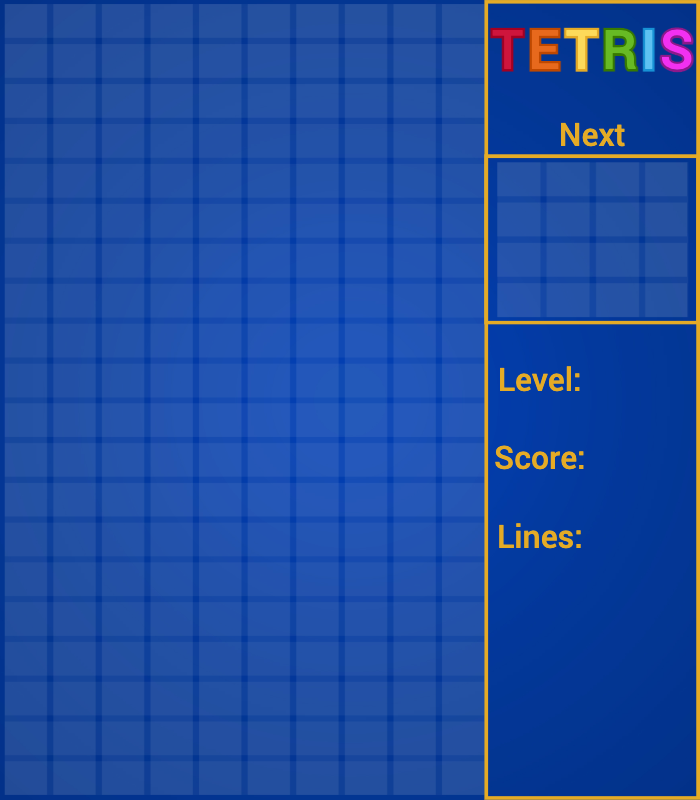
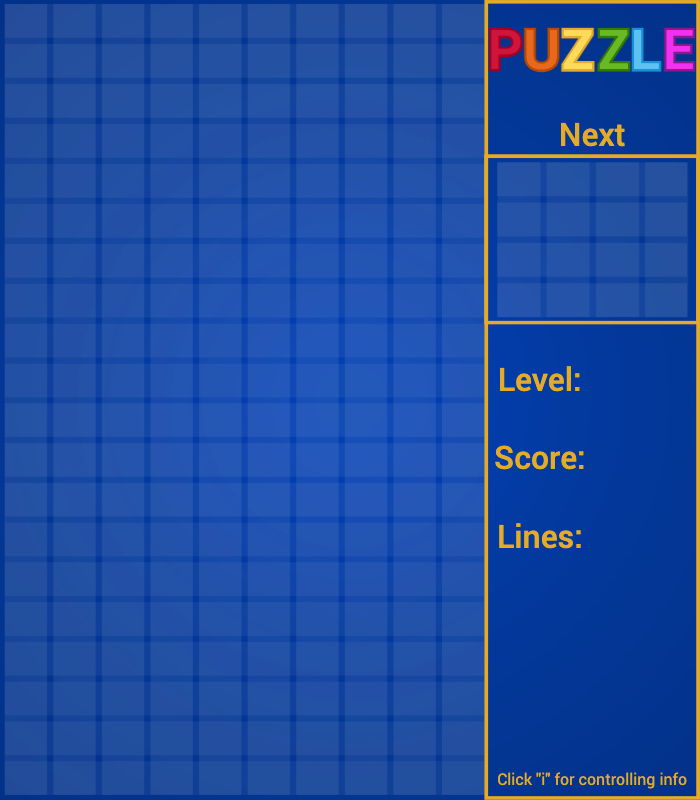
fix ghostPiece position bug, add hardDrop, controlling info

Changed region(s): [[0.69, 0.0312, 1.0, 0.0938], [0.72, 0.9688, 0.99, 1.0]]

diff --git a/game/src/GameController.cpp b/game/src/GameController.cpp
@@ -11,7 +11,7 @@
 
 #include <random>
 #include <App.hpp>
-
+#include <Settings.hpp>
 
 using ::Engine::Math::operator*=;
 
@@ -26,6 +26,8 @@ GameController::GameController(App *parent, MiniKit::Engine::Context &context) :
 
     SpriteManager->loadSprite("assets/images/background_b.png", "playField");
     SpriteManager->loadSprite("assets/images/square.png", "square");
+    SpriteManager->loadSprite("assets/images/pause.png", "pause");
+    SpriteManager->loadSprite("assets/images/info_b.png", "info");
 
     entityManager->addSystem(*m_gridSystem);
     entityManager->addSystem(*m_collisionSystem);
@@ -33,27 +35,47 @@ GameController::GameController(App *parent, MiniKit::Engine::Context &context) :
     entityManager->addSystem(*m_tileSystem);
     entityManager->addSystem(*m_scoreSystem);
 
+    m_controlInfoLabel = ::std::make_unique<Entity>(entityManager->createEntity());
+    m_pauseLabel = ::std::make_unique<Entity>(entityManager->createEntity());
+    m_ghostPiece = ::std::make_unique<Entity>(entityManager->createEntity());
     m_currentPiece = ::std::make_unique<Entity>(entityManager->createEntity());
     m_nextPiece = ::std::make_unique<Entity>(entityManager->createEntity());
-    m_ghostPiece = ::std::make_unique<Entity>(entityManager->createEntity());
+
     m_playField = ::std::make_unique<Entity>(entityManager->createEntity());
+
+    m_pauseLabel->addComponent<Sprite>();
+    m_controlInfoLabel->addComponent<Sprite>();
 
     m_playField->addComponent<BoardComponent>();
     m_playField->addComponent<ScoreComponent>();
     m_playField->addComponent<Sprite>();
 
-    m_nextPiece->addComponent<PieceComponent>();
-
     m_ghostPiece->addComponent<PieceComponent>();
+    m_nextPiece->addComponent<PieceComponent>();
 
     initPlayFieldBackground();
 
     m_eventSystem->connect(this, &GameController::updatePieces);
+    m_eventSystem->connect(this, &GameController::onPieceFallen);
 }
 
 GameController::~GameController() {
 //    m_context.GetWindow().RemoveResponder(*m_pieceSystem);
 //    m_context.GetWindow().RemoveResponder(*this);
+}
+
+void GameController::onPieceFallen(PieceFallenEvent *) {
+
+    if (m_currentState != State::PieceBlocking) {
+        m_currentState = State::PieceBlocking;
+        m_pieceBlockingTimer = ::std::chrono::duration_cast<::std::chrono::milliseconds>(::std::chrono::system_clock::now().time_since_epoch());
+    } else {
+        auto currentTime = ::std::chrono::duration_cast<::std::chrono::milliseconds>(::std::chrono::system_clock::now().time_since_epoch());
+        if (currentTime - m_pieceBlockingTimer > std::chrono::milliseconds(500)) {
+            m_currentState = State::Fall;
+            m_eventSystem->emit(new BlockSetEvent);
+        }
+    }
 }
 
 void GameController::KeyDown(Window &window, const KeyEvent &event) noexcept {
@@ -62,10 +84,23 @@ void GameController::KeyDown(Window &window, const KeyEvent &event) noexcept {
     if (now - inputDelay > std::chrono::milliseconds(130)) {
         switch (event.keycode) {
             case MiniKit::Platform::Keycode::KeyP:
-                if (m_currentState != State::Pause)
+                if (m_currentState != State::Pause) {
                     m_currentState = State::Pause;
-                else
+                    m_pauseLabel->activate();
+                }
+                else {
+                    m_pauseLabel->deactivate();
                     m_currentState = State::Fall;
+                }
+                break;
+            case MiniKit::Platform::Keycode::KeyI:
+                if (m_controlInfoLabel->isActivated()) {
+                    m_controlInfoLabel->deactivate();
+                    m_pauseLabel->activate();
+                } else {
+                    m_currentState = State::Pause;
+                    m_controlInfoLabel->activate();
+                }
                 break;
             case MiniKit::Platform::Keycode::KeyQ:
                 m_parent->ChangeState();
@@ -80,6 +115,16 @@ void GameController::initPlayFieldBackground() {
 
     playFieldSprite.setImage("playField");
     playFieldSprite.getTransform().scale *= 2.f;
+
+    auto &pauseLabelSprite = m_pauseLabel->getComponent<Sprite>();
+    pauseLabelSprite.setImage("pause");
+    pauseLabelSprite.getTransform().position.y += m_context.GetWindow().GetHeight() / 5;
+    pauseLabelSprite.getTransform().scale *= 2.f;
+
+    auto &infoLabelSprite = m_controlInfoLabel->getComponent<Sprite>();
+    infoLabelSprite.setImage("info");
+    infoLabelSprite.getTransform().position = {m_context.GetWindow().GetWidth() / 4.f, m_context.GetWindow().GetHeight() / 4.f};
+    infoLabelSprite.getTransform().scale *= 2.5f;
 }
 
 void GameController::updatePieces(BlockSetEvent *) {
@@ -88,7 +133,6 @@ void GameController::updatePieces(BlockSetEvent *) {
     }
     spawnPiece();
     updateNextPiece();
-    updateGhostPiece();
 }
 
 uint8_t translateIndex(int index) {
@@ -124,7 +168,6 @@ void GameController::updateNextPiece() {
 
 void GameController::updateGhostPiece() {
     auto &pieceComponent = m_ghostPiece->getComponent<PieceComponent>();
-    pieceComponent.activate();
     bool isPossible = true;
     auto row = 0;
     auto currentPiecePos = m_pieceSystem->getTilesPosition(m_currentPiece->getComponent<PieceComponent>());
@@ -133,16 +176,22 @@ void GameController::updateGhostPiece() {
         for (auto pos : currentPiecePos) {
             pos.y += row;
             if (!m_gridSystem->isInBounds(pos) || !m_gridSystem->isPosEmpty(pos)) {
-                ::std::clog << "Y: " << pos.y << ::std::endl;
+                --row;
                 isPossible = false;
                 break;
             }
         }
     }
     for (auto &pos : currentPiecePos) {
-        pos.y += (row - 2);
+        pos.y += (row - 1);
     }
     m_pieceSystem->spawnGhost(pieceComponent, currentPiecePos);
+}
+
+uint8_t GameController::getHardDropDistance() {
+    auto &currentPiece = m_currentPiece->getComponent<PieceComponent>();
+    auto &ghostPiece = m_ghostPiece->getComponent<PieceComponent>();
+    return ghostPiece.tiles[0]->getComponent<TileComponent>().position.y - currentPiece.tiles[0]->getComponent<TileComponent>().position.y;
 }
 
 void GameController::spawnPiece() {
@@ -162,7 +211,6 @@ void GameController::spawnPiece() {
 void GameController::update(float deltaTime) {
     if (m_currentState != State::Pause) {
         m_pieceSystem->update(deltaTime);
-        updateGhostPiece();
         m_collisionSystem->update(deltaTime);
         m_gridSystem->update(deltaTime);
         m_scoreSystem->update(deltaTime);
@@ -178,13 +226,15 @@ void GameController::activate() {
     m_playField->activate();
 
     m_nextPiece->activate();
-    m_ghostPiece->activate();
 
-    m_playField->getComponent<ScoreComponent>().activate();
+    if (settings->getValue("Ghost piece")) {
+        m_ghostPiece->activate();
+        m_ghostPiece->getComponent<PieceComponent>().activate();
+    }
 
     entityManager->refresh();
-
     m_gridSystem->activate();
+    m_scoreSystem->activate();
 }
 
 void GameController::deactivate() {
@@ -202,7 +252,7 @@ void GameController::deactivate() {
     m_currentPiece->getComponent<PieceComponent>().deactivate();
     m_nextPiece->getComponent<PieceComponent>().deactivate();
     m_ghostPiece->getComponent<PieceComponent>().deactivate();
-//    m_ghostPiece->deactivate();
+
     entityManager->refresh();
 }
 
@@ -217,6 +267,7 @@ void GameController::NewGameState() {
 
 void GameController::ResumeGameState() {
     activate();
+
     m_currentPiece->activate();
     m_currentPiece->getComponent<PieceComponent>().activate();
     m_nextPiece->getComponent<PieceComponent>().activate();

diff --git a/game/src/Systems/ScoreSystem.cpp b/game/src/Systems/ScoreSystem.cpp
@@ -4,6 +4,7 @@
 ScoreSystem::ScoreSystem(GameController *parent) : m_parent(parent) {
     m_parent->m_eventSystem->connect(this, &ScoreSystem::onLinesClear);
     m_parent->m_eventSystem->connect(this, &ScoreSystem::onSoftDrop);
+    m_parent->m_eventSystem->connect(this, &ScoreSystem::onHardDrop);
 }
 
 void ScoreSystem::update(float deltaTime) {
@@ -13,7 +14,11 @@ void ScoreSystem::update(float deltaTime) {
 
         score.level->getComponent<Text>().setText(::std::to_string(score.lvl));
         score.lines->getComponent<Text>().setText(::std::to_string(score.lns));
-        score.score->getComponent<Text>().setText(::std::to_string(score.scr));
+        if (score.scr > 99999) {
+            score.score->getComponent<Text>().setText(::std::to_string(score.scr / 1000000) + "K");
+        } else {
+            score.score->getComponent<Text>().setText(::std::to_string(score.scr));
+        }
     }
 }
 
@@ -24,7 +29,7 @@ void ScoreSystem::onLinesClear(LinesClearEvent *e) {
 
         int resScore = 0;
 
-        switch (e->lines.size()) {
+        switch (e->_lines.size()) {
             case 1:
                 resScore = 100; break;
             case 2:
@@ -36,8 +41,8 @@ void ScoreSystem::onLinesClear(LinesClearEvent *e) {
         }
 
         score.scr += resScore * score.lvl;
-        score.lns += e->lines.size();
-        m_clearLines += e->lines.size();
+        score.lns += e->_lines.size();
+        m_clearLines += e->_lines.size();
 
         if (m_clearLines >= 5 + (3 * (score.lvl - 1))) {
             score.lvl += 1;
@@ -52,6 +57,15 @@ void ScoreSystem::onSoftDrop(SoftDropEvent *e) {
         auto &score = entity.getComponent<ScoreComponent>();
 
         score.scr += 1;
+    }
+}
+
+void ScoreSystem::onHardDrop(HardDropEvent *e) {
+    auto entities = getEntities();
+    for (auto &entity : entities) {
+        auto &score = entity.getComponent<ScoreComponent>();
+
+        score.scr += e->_distance * 2;
     }
 }
 

diff --git a/game/src/Systems/PieceController.cpp b/game/src/Systems/PieceController.cpp
@@ -23,14 +23,17 @@ void PieceController::update(float deltaTime) {
         moveComponent.previousData.rotationIndex = moveComponent.rotationIndex;
 
         if (moveTime > 0.2 && moveComponent.state &
-            (MoveComponent::State::MoveLeft | MoveComponent::State::MoveRight | MoveComponent::State::SoftDownMove)) {
+            (MoveComponent::State::MoveLeft | MoveComponent::State::MoveRight
+            | MoveComponent::State::SoftDownMove | MoveComponent::State::HardDownMove)) {
             moveComponent.previousData.state = moveComponent.state;
             movePiece(pieceComponent, moveComponent.direction[moveComponent.state]);
             moveTime = 0;
             if (moveComponent.state & MoveComponent::State::SoftDownMove) {
                 m_parent->m_eventSystem->emit(new SoftDropEvent());
             } else if (moveComponent.state & MoveComponent::State::HardDownMove) {
-                m_parent->m_eventSystem->emit(new SoftDropEvent());
+                auto offset = m_parent->getHardDropDistance();
+                movePiece(pieceComponent, {0, offset});
+                m_parent->m_eventSystem->emit(new HardDropEvent(offset));
             }
         } else if (moveTime > 0.2 && moveComponent.state & (MoveComponent::State::RotateLeft | MoveComponent::RotateRight)) {
             rotatePiece(pieceComponent, moveComponent, moveComponent.state & MoveComponent::RotateRight);

diff --git a/game/include/GameController.hpp b/game/include/GameController.hpp
@@ -39,7 +39,7 @@ class GameController : public Responder  {
         Spawn,
         Fall,
         ClearLine,
-        PieceBlock,
+        PieceBlocking,
         Pause,
         Off
     } m_currentState{State::Off};
@@ -74,7 +74,10 @@ private:
 
     ::std::chrono::milliseconds now;
     ::std::chrono::milliseconds inputDelay{0};
+    ::std::chrono::milliseconds m_pieceBlockingTimer{0};
 
+    ::std::unique_ptr<Entity> m_pauseLabel{ nullptr };
+    ::std::unique_ptr<Entity> m_controlInfoLabel{ nullptr };
     ::std::unique_ptr<Entity> m_playField{ nullptr };
     ::std::unique_ptr<Entity> m_currentPiece{ nullptr };
     ::std::unique_ptr<Entity> m_nextPiece{ nullptr };
@@ -93,4 +96,8 @@ private:
     friend class PieceController;
     friend class TileController;
     friend class ScoreSystem;
+
+    uint8_t getHardDropDistance();
+
+    void onPieceFallen(PieceFallenEvent *);
 };

diff --git a/game/include/Components/ScoreComponent.hpp b/game/include/Components/ScoreComponent.hpp
@@ -22,9 +22,9 @@ struct ScoreComponent : Component  {
         auto &scoreText = score->addComponent<Text>(::std::to_string(scr), *m_font, 7u);
         auto &linesText = lines->addComponent<Text>(::std::to_string(lns), *m_font, 7u);
 
-        levelText.getTransform().position = {580, 379};
-        scoreText.getTransform().position = {580, 458};
-        linesText.getTransform().position = {580, 537};
+        levelText.getTransform().position = {572, 379};
+        scoreText.getTransform().position = {572, 458};
+        linesText.getTransform().position = {572, 537};
 
         levelText.getColor() = {240.f / 255.f, 110.f / 255.f, 0.f, 1.f};
         scoreText.getColor() = {240.f / 255.f, 110.f / 255.f, 0.f, 1.f};

diff --git a/game/src/Systems/CollisionSystem.cpp b/game/src/Systems/CollisionSystem.cpp
@@ -39,11 +39,12 @@ void CollisionSystem::update(float) {
                 m_parent->m_pieceSystem->movePiece(piece, backOffset);
             } else {
                 m_parent->m_pieceSystem->movePiece(piece, {0, -1});
-                m_parent->m_eventSystem->emit(new SoftDropCollidedEvent());
-                m_parent->m_eventSystem->emit(new BlockSetEvent());
+//                m_parent->m_eventSystem->emit(new SoftDropCollidedEvent());
+                m_parent->m_eventSystem->emit(new PieceFallenEvent());
             }
         }
     }
+    m_parent->updateGhostPiece();
 }
 
 bool CollisionSystem::checkOffset(const PieceComponent &piece, const PieceCollisionComponent &collision,

diff --git a/game/include/Event/GameEvents.hpp b/game/include/Event/GameEvents.hpp
@@ -5,11 +5,17 @@
 struct BlockSetEvent : Event {};
 
 struct SoftDropEvent : Event {};
+struct HardDropEvent : Event {
+    HardDropEvent(uint8_t data) : _distance(data) {}
+
+    uint8_t _distance{0};
+};
 struct SoftDropCollidedEvent : Event {};
 struct LinesClearEvent : Event {
-    LinesClearEvent(::std::vector<int> data) : lines(data) {}
+    LinesClearEvent(::std::vector<int> data) : _lines(data) {}
 
-    ::std::vector<int> lines{0};
+    ::std::vector<int> _lines{0};
 };
 
 struct LevelUpEvent : Event{};
+struct PieceFallenEvent : Event{};

diff --git a/game/include/Components/MoveComponent.hpp b/game/include/Components/MoveComponent.hpp
@@ -34,5 +34,6 @@ struct MoveComponent : Component {
             {MoveRight, {1, 0}},
             {MoveDown, {0, 1}},
             {SoftDownMove, {0, 1}},
+            {HardDownMove, {0, 0}},
     };
 };

diff --git a/game/include/Components/TileComponent.hpp b/game/include/Components/TileComponent.hpp
@@ -37,4 +37,5 @@ private:
     friend class TileController;
     friend class PieceController;
     friend class PieceComponent;
+    friend class GameController;
 };

diff --git a/game/include/Systems/ScoreSystem.hpp b/game/include/Systems/ScoreSystem.hpp
@@ -34,6 +34,7 @@ private:
     GameController *m_parent = { nullptr };
     int m_clearLines{0};
 
+    void onHardDrop(HardDropEvent *e);
 };
 
 
